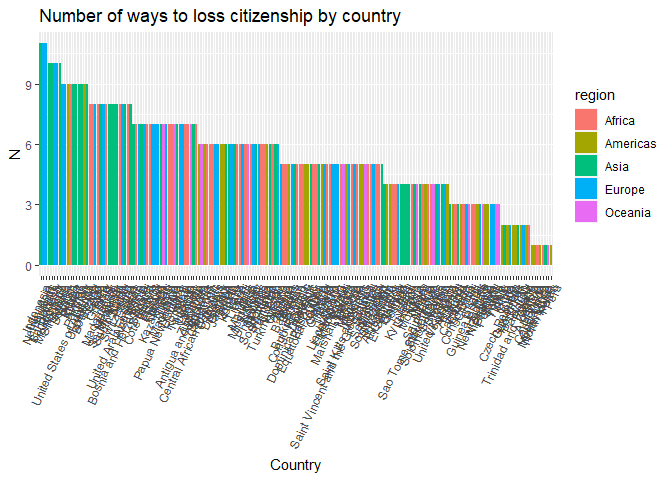
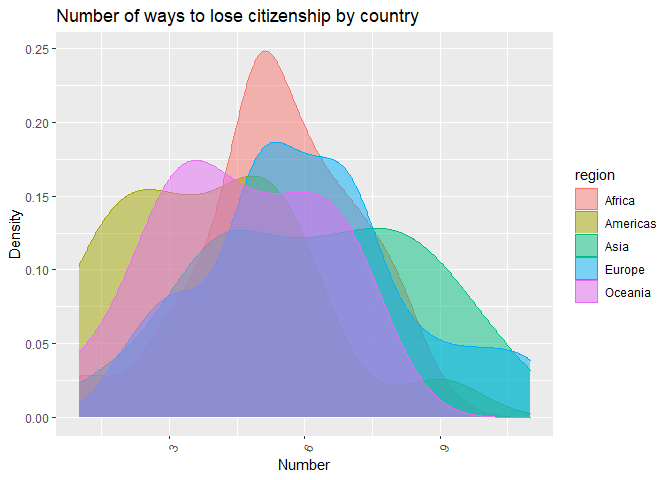
changed two of the plots to density plots instead of bar graphs

diff --git a/EDA/eda.md b/EDA/eda.md
@@ -61,3 +61,7 @@
 -   There isn’t one universal way citizens can lose citizenship
 -   L13 doesn’t apply to any countries in Africa, Oceania, or the
     Americas
+-   The average European country has more ways to acquire citizenship
+    than the average country from another region of the world
+-   There is a more uniform distribution across how many ways there are
+    to lose citizenship
